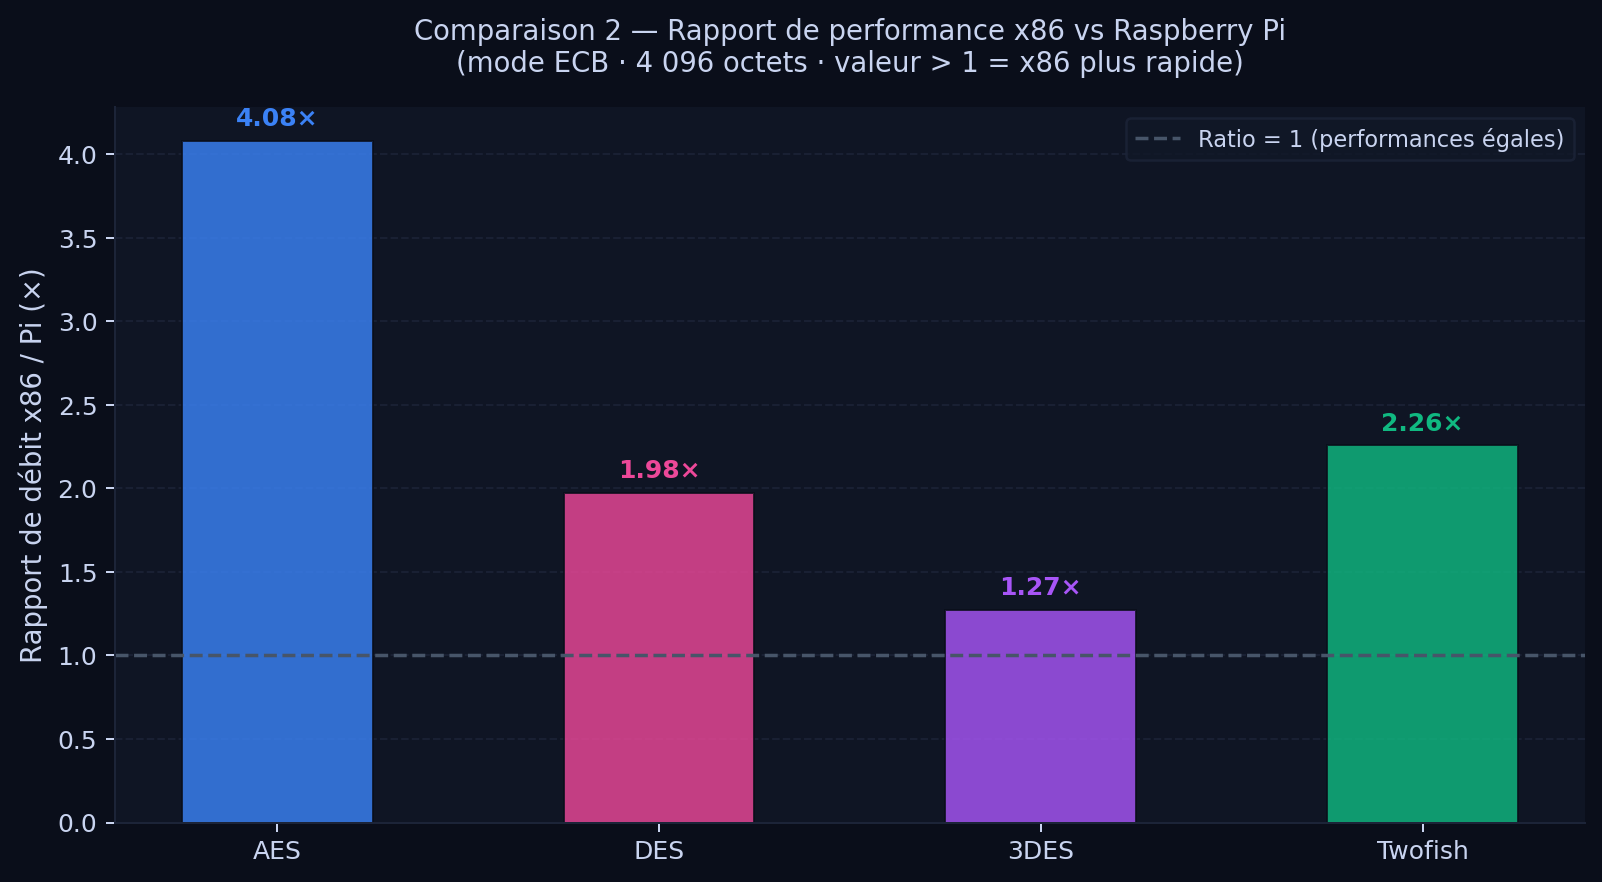
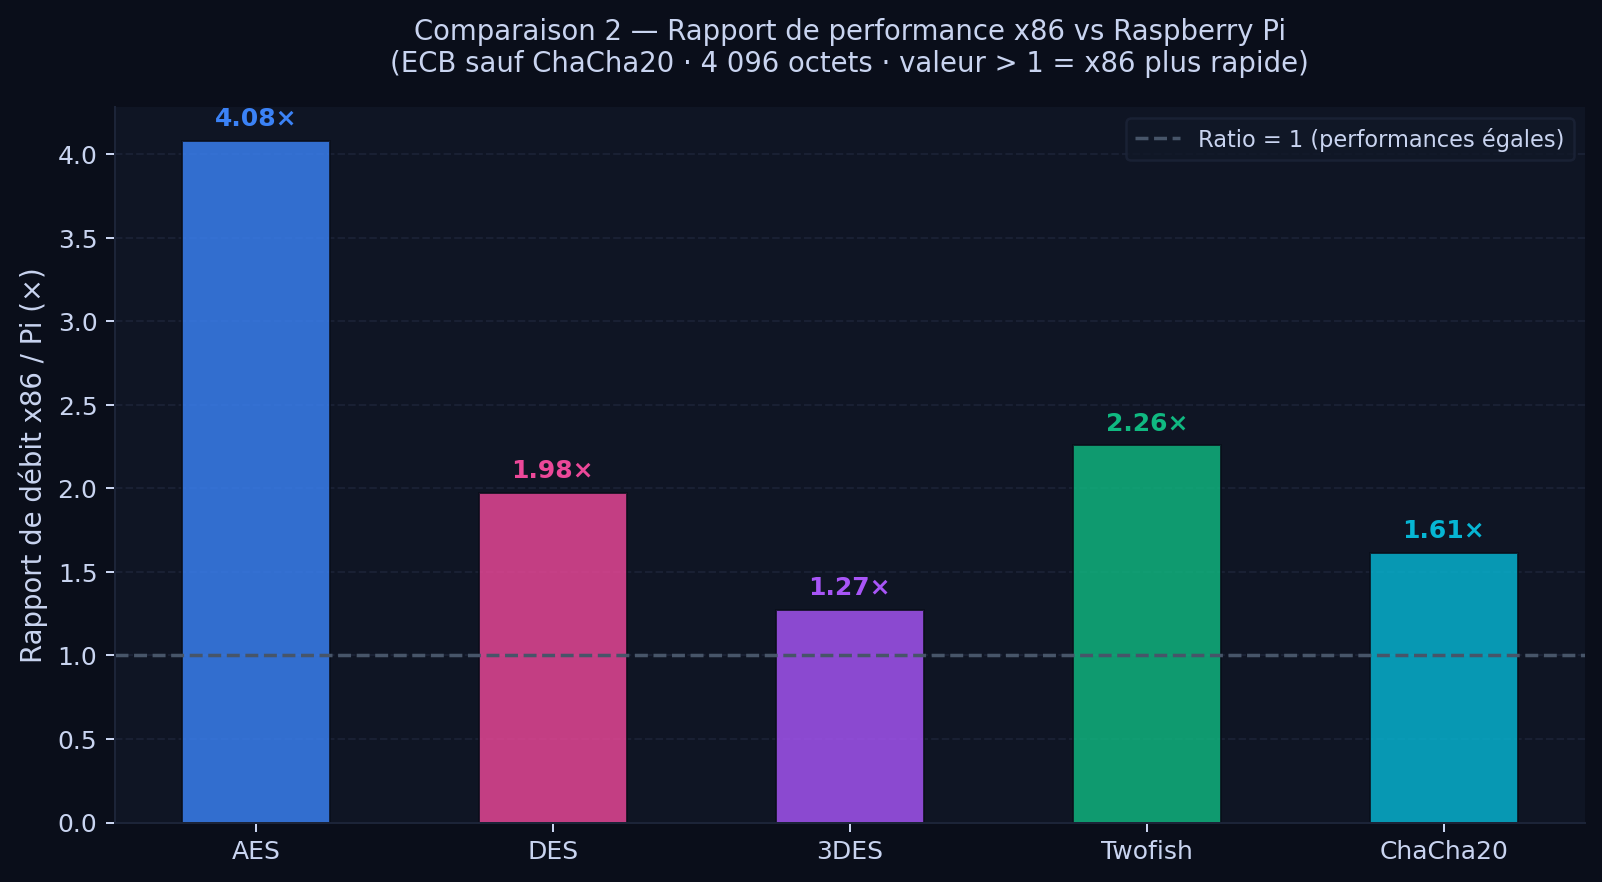
commit

diff --git a/crypto-experiments/scripts/compare_platforms.py b/crypto-experiments/scripts/compare_platforms.py
@@ -225,15 +225,15 @@ def cmp1_throughput_all():
 # ===========================================================================
 def cmp2_speedup_ratio():
     target_size = 4096
-    target_mode = "ECB"
     best_key = {"AES": 256, "DES": 64, "3DES": 192, "Twofish": 256, "ChaCha20": 256}
-    algo_order = [a for a in best_key if any(r["algorithm"] == a for r in x86_rows)]
+    algo_order = list(best_key.keys())
 
     ratios, algos, colors = [], [], []
     for algo in algo_order:
-        kb  = best_key[algo]
-        r86 = _lookup(x86_rows, algo, target_mode, kb, target_size)
-        rpi = _lookup(pi_rows,  algo, target_mode, kb, target_size)
+        kb   = best_key[algo]
+        mode = BEST_MODE[algo]
+        r86 = _lookup(x86_rows, algo, mode, kb, target_size)
+        rpi = _lookup(pi_rows,  algo, mode, kb, target_size)
         if r86 and rpi and rpi["throughput_enc"] > 0:
             ratios.append(r86["throughput_enc"] / rpi["throughput_enc"])
             algos.append(algo)
@@ -255,7 +255,7 @@ def cmp2_speedup_ratio():
     ax.set_ylabel("Rapport de débit x86 / Pi (×)", fontsize=11)
     ax.set_title(
         "Comparaison 2 — Rapport de performance x86 vs Raspberry Pi\n"
-        "(mode ECB · 4 096 octets · valeur > 1 = x86 plus rapide)",
+        "(ECB sauf ChaCha20 · 4 096 octets · valeur > 1 = x86 plus rapide)",
         fontsize=11,
     )
     ax.legend(fontsize=9)
